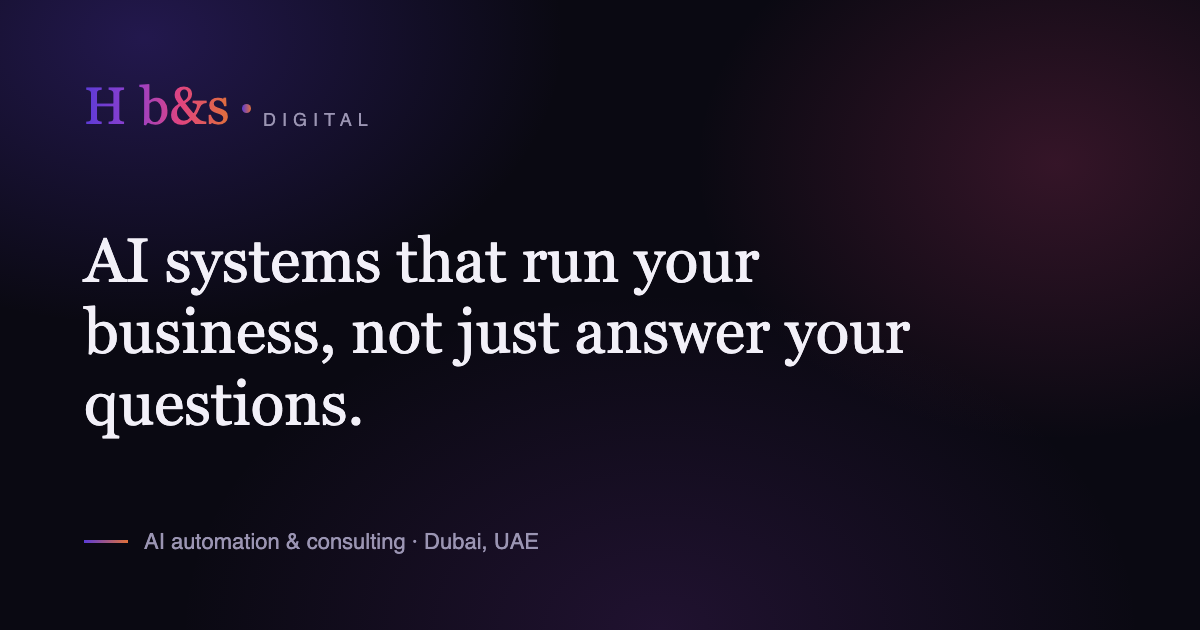
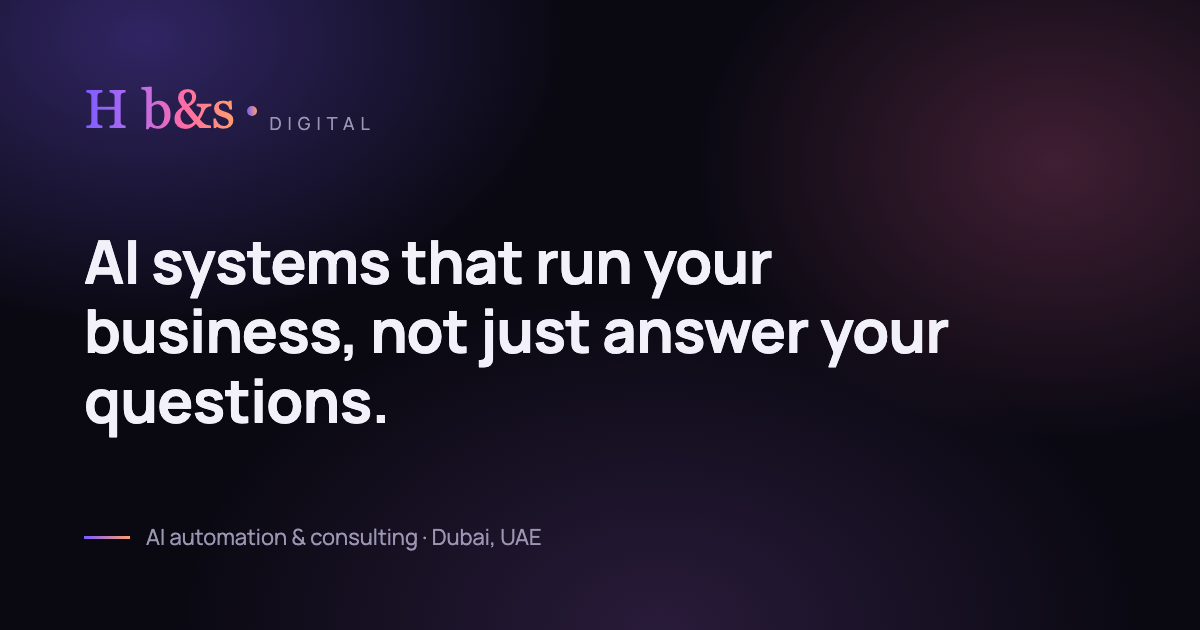
Polish: FAQPage rich-results schema, FAQ in sitemap, aurora OG image

diff --git a/site/faq/index.html b/site/faq/index.html
@@ -22,6 +22,175 @@
 <link rel="preconnect" href="https://fonts.gstatic.com" crossorigin>
 <link rel="stylesheet" href="https://fonts.googleapis.com/css2?family=Manrope:wght@400;500;600;700;800&display=swap">
 <link rel="stylesheet" href="/styles.css">
+
+<script type="application/ld+json">
+{
+  "@context": "https://schema.org",
+  "@type": "FAQPage",
+  "mainEntity": [
+    {
+      "@type": "Question",
+      "name": "What does H b&s Digital actually do?",
+      "acceptedAnswer": {
+        "@type": "Answer",
+        "text": "We build and install AI automation for UAE businesses — the agents, workflows and systems that take AI out of the chat window and into your day-to-day operations. Lead capture, booking, document processing, support, follow-up and reporting, wired into the tools you already use."
+      }
+    },
+    {
+      "@type": "Question",
+      "name": "How do we get started?",
+      "acceptedAnswer": {
+        "@type": "Answer",
+        "text": "With a free consultation, then a paid AI Kickstart — a structured audit that maps your workflows and hands you a prioritised, costed roadmap. You own that roadmap and can build it with us, in-house, or elsewhere."
+      }
+    },
+    {
+      "@type": "Question",
+      "name": "How much does it cost?",
+      "acceptedAnswer": {
+        "@type": "Answer",
+        "text": "It depends on scope, so we quote after the free consultation rather than list prices. As a guide, we work in fixed builds plus a light monthly retainer for maintenance. No surprises — you get a clear number before anything starts."
+      }
+    },
+    {
+      "@type": "Question",
+      "name": "How long does it take?",
+      "acceptedAnswer": {
+        "@type": "Answer",
+        "text": "Most first systems go live in weeks, not months. Simpler automations can be running in days; larger builds with multiple integrations take a few weeks."
+      }
+    },
+    {
+      "@type": "Question",
+      "name": "Do you keep it running after launch?",
+      "acceptedAnswer": {
+        "@type": "Answer",
+        "text": "Yes — that's the part most agencies skip. Our AI Care Plan monitors everything we build, fixes it when connected tools change, improves it monthly, and reports what it did."
+      }
+    },
+    {
+      "@type": "Question",
+      "name": "Do we work in Arabic and English?",
+      "acceptedAnswer": {
+        "@type": "Answer",
+        "text": "Yes. Bilingual EN/AR is built in — support bots, content and messaging all work in both languages by default."
+      }
+    },
+    {
+      "@type": "Question",
+      "name": "Is our data handled properly?",
+      "acceptedAnswer": {
+        "@type": "Answer",
+        "text": "Yes. We build consent-based systems aligned with the UAE Personal Data Protection Law (PDPL). We don't do cold spam, and outreach only goes to your existing, opted-in contacts."
+      }
+    },
+    {
+      "@type": "Question",
+      "name": "What isn't part of what you do?",
+      "acceptedAnswer": {
+        "@type": "Answer",
+        "text": "We focus purely on AI automation. We don't do general web or app development, SEO, performance marketing, branding or design — staying narrow is how we do the automation part properly."
+      }
+    },
+    {
+      "@type": "Question",
+      "name": "LeadFlow AI",
+      "acceptedAnswer": {
+        "@type": "Answer",
+        "text": "Captures every enquiry from WhatsApp, your website and ad forms, qualifies it in a natural back-and-forth, scores it and writes a clean record straight into your CRM — with an instant first response, 24/7."
+      }
+    },
+    {
+      "@type": "Question",
+      "name": "BookingDesk AI",
+      "acceptedAnswer": {
+        "@type": "Answer",
+        "text": "Takes appointments online around the clock, confirms them, sends reminders, and chases no-shows to rebook — synced to the calendar you already use, in Arabic and English."
+      }
+    },
+    {
+      "@type": "Question",
+      "name": "DocProcess AI",
+      "acceptedAnswer": {
+        "@type": "Answer",
+        "text": "Reads incoming invoices and documents, extracts and validates the fields that matter, and pushes the data into your accounting or ERP — built for trading and logistics."
+      }
+    },
+    {
+      "@type": "Question",
+      "name": "SupportBot AI",
+      "acceptedAnswer": {
+        "@type": "Answer",
+        "text": "A bilingual tier-1 assistant trained on your business that answers routine questions instantly and hands the rest to your team with full context — on WhatsApp and web."
+      }
+    },
+    {
+      "@type": "Question",
+      "name": "AI Kickstart",
+      "acceptedAnswer": {
+        "@type": "Answer",
+        "text": "A structured audit and roadmap: we map your operations, find the highest-leverage automations, and give you a clear, prioritised plan. The honest front door to every build."
+      }
+    },
+    {
+      "@type": "Question",
+      "name": "Content & Listing Engine",
+      "acceptedAnswer": {
+        "@type": "Answer",
+        "text": "Turns one brief into a month of on-brand social posts, captions and property or product listings — bilingual, scheduled across your channels, tuned to your voice."
+      }
+    },
+    {
+      "@type": "Question",
+      "name": "Daily Ops & KPI Digest",
+      "acceptedAnswer": {
+        "@type": "Answer",
+        "text": "A scheduled WhatsApp or email brief that pulls leads, bookings, sales and ad spend into one clear view, with alerts when a number moves the wrong way."
+      }
+    },
+    {
+      "@type": "Question",
+      "name": "AI Care Plan",
+      "acceptedAnswer": {
+        "@type": "Answer",
+        "text": "Ongoing monitoring, break-fix, monthly improvements and reporting for everything we build, with a response-time SLA — so your automation stays an asset."
+      }
+    },
+    {
+      "@type": "Question",
+      "name": "Review & Reputation Autopilot",
+      "acceptedAnswer": {
+        "@type": "Answer",
+        "text": "Automatically asks happy customers for a Google review at the right moment, drafts your replies for approval, and routes unhappy customers to a human first."
+      }
+    },
+    {
+      "@type": "Question",
+      "name": "WhatsApp Business API Setup",
+      "acceptedAnswer": {
+        "@type": "Answer",
+        "text": "We handle the Meta Business onboarding, verification, number setup and template approvals — the official foundation every WhatsApp automation needs."
+      }
+    },
+    {
+      "@type": "Question",
+      "name": "CRM Setup & Automation",
+      "acceptedAnswer": {
+        "@type": "Answer",
+        "text": "We set up and automate Zoho, Bitrix24 or HubSpot — clean pipelines, lead routing, dashboards, migration and training that makes it stick."
+      }
+    },
+    {
+      "@type": "Question",
+      "name": "AI Outreach & Follow-up",
+      "acceptedAnswer": {
+        "@type": "Answer",
+        "text": "AI-personalised follow-up across WhatsApp, email and LinkedIn for leads who already know you — consent-based and PDPL-aligned, with every reply logged to your CRM."
+      }
+    }
+  ]
+}
+</script>
 </head>
 <body>
 
